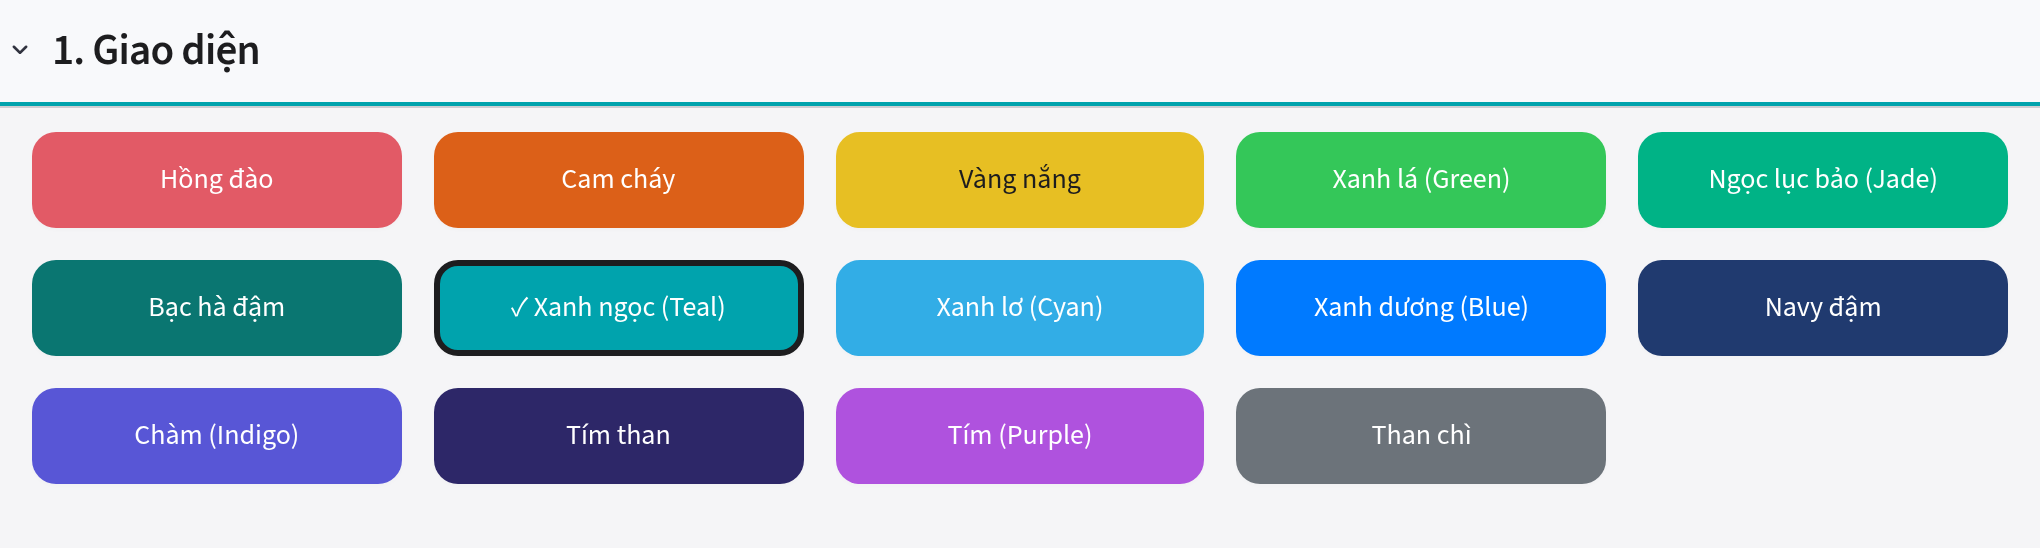
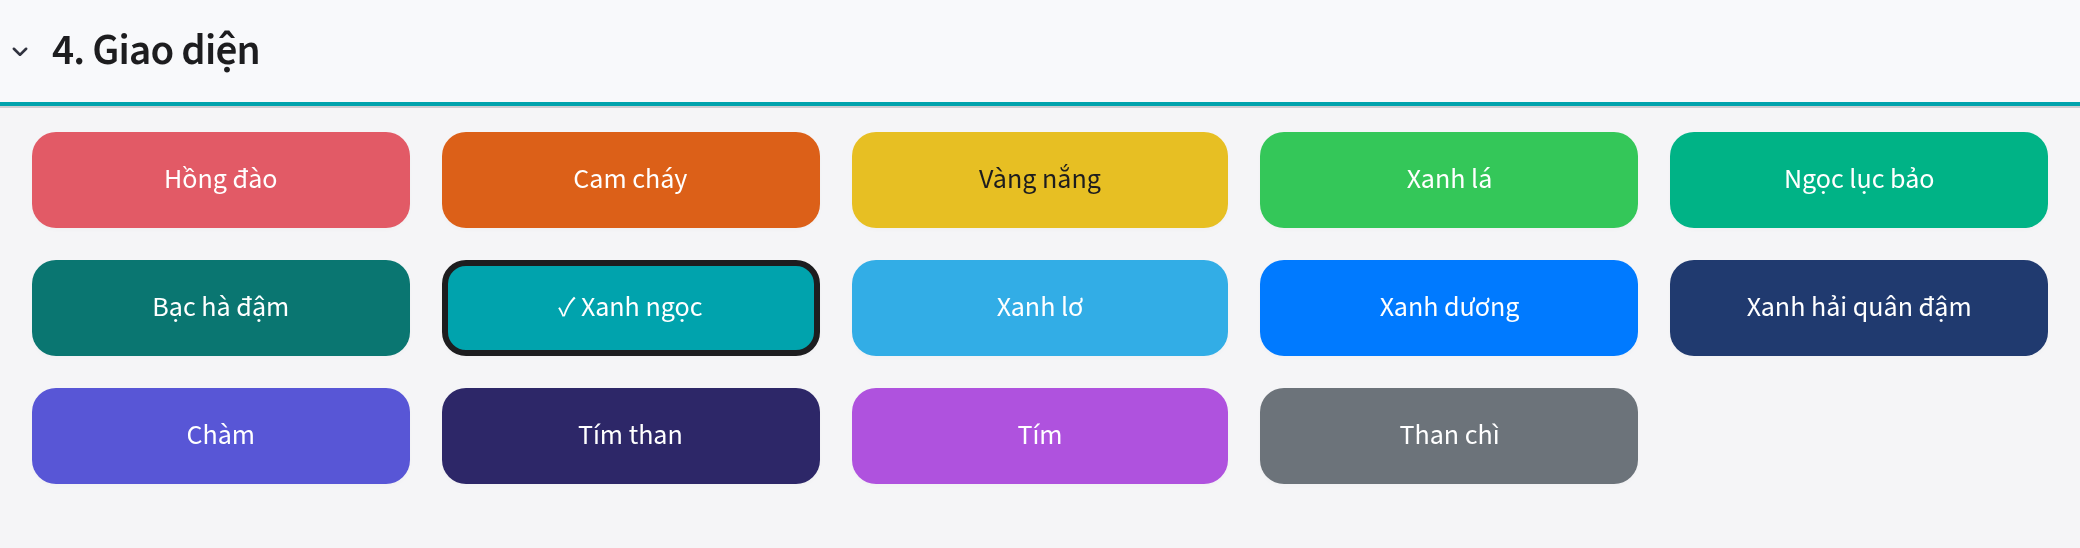
Match Hướng dẫn sub-tab bar to Báo cáo's flat style; reorder Tuỳ biến (#128)
* Hide the full-width gray divider under Sách/Gundam sub-tabs

st.tabs() renders a baseweb "tab-border" element spanning the full
tab-list width beneath the tabs; the Báo cáo sub-page picker (custom
segmented_control) has no such line, so hide it here too for a
consistent look between the two sub-tab bars.

* Add "Hôm nay" as default landing page, rename tab to "Tuỳ biến", add accent color picker

- Extract the day-report page out of Báo cáo into a new top-level nav
  item "Hôm nay" (first position, default landing page) — matches the
  daily-first-check workflow. "Tổng quan" (formerly "Thống kê chung")
  moves into Báo cáo as its new first sub-page, replacing "Ngày".
  Day-jump links updated to target Hôm nay directly (no more &sub=).
- Rename "Chuẩn bị dữ liệu" nav tab to "Tuỳ biến"; leave all in-app
  Hướng dẫn tab content untouched (verified byte-identical) per an
  explicit request to defer that rewrite to a separate commit.
- Add a settings table (Supabase) plus an 8-color accent picker in a
  new "5. Giao diện" section — replaces the single hardcoded teal
  accent everywhere: the global CSS block via :root CSS variables, the
  Quill editor's iframe CSS, session/calendar/heatmap color scales
  (now hue-derived from the chosen accent instead of a hardcoded
  constant), and table heat-cell backgrounds. Verified the default
  Teal preset reproduces the original hue/shade values exactly, so
  existing users see no visual change unless they pick a different
[…]

diff --git a/app.py b/app.py
@@ -161,7 +161,7 @@ MAC_COLORS = [
 ]
 
 
-# 14 lựa chọn màu accent (tab Tuỳ biến → "1. Giao diện"), người dùng tự chọn từ bản mockup --
+# 14 lựa chọn màu accent (tab Tuỳ biến → "4. Giao diện"), người dùng tự chọn từ bản mockup --
 # xếp theo thứ tự hue tăng dần (đỏ/cam/vàng -> xanh lá -> xanh dương -> tím) cho có thứ tự hợp
 # lý khi hiện thành lưới, riêng "Than chì" (gần như xám) xếp cuối vì không thuộc dải màu nào.
 # Lưu ý: 3 màu đầu (Hồng đào/Cam cháy/Vàng nắng) CỐ Ý trùng vùng tông app đang dùng cho cảnh báo
@@ -171,16 +171,16 @@ ACCENT_PRESETS = {
     "Hồng đào": "#e25a66",
     "Cam cháy": "#dc6018",
     "Vàng nắng": "#e7bf23",
-    "Xanh lá (Green)": "#34c759",
-    "Ngọc lục bảo (Jade)": "#00b386",
+    "Xanh lá": "#34c759",
+    "Ngọc lục bảo": "#00b386",
     "Bạc hà đậm": "#0a7671",
-    "Xanh ngọc (Teal)": "#00a3ad",      # mặc định, giữ NGUYÊN màu hiện tại
-    "Xanh lơ (Cyan)": "#32ade6",
-    "Xanh dương (Blue)": "#007aff",
-    "Navy đậm": "#203a6f",
-    "Chàm (Indigo)": "#5856d6",
+    "Xanh ngọc": "#00a3ad",      # mặc định, giữ NGUYÊN màu hiện tại
+    "Xanh lơ": "#32ade6",
+    "Xanh dương": "#007aff",
+    "Xanh hải quân đậm": "#203a6f",
+    "Chàm": "#5856d6",
     "Tím than": "#2d2768",
-    "Tím (Purple)": "#af52de",
+    "Tím": "#af52de",
     "Than chì": "#6c737a",
 }
 
@@ -215,7 +215,7 @@ def _darken(hexcode, factor=0.72):
 
 def _readable_text(hexcode):
     """Chữ trắng hay đen đọc rõ hơn trên nền màu này (độ chói YIQ) -- dùng cho tên màu hiện
-    ngay trên nút accent (mục "1. Giao diện"), tự thích ứng khi thêm/bớt preset sau này."""
+    ngay trên nút accent (mục "4. Giao diện"), tự thích ứng khi thêm/bớt preset sau này."""
     h = hexcode.lstrip("#")
     r, g, b = int(h[0:2], 16), int(h[2:4], 16), int(h[4:6], 16)
     luminance = (0.299 * r + 0.587 * g + 0.114 * b) / 255
@@ -2616,9 +2616,13 @@ st.markdown(
     .st-key-rl_view_tabs [data-baseweb="tab-border"] { display: none !important; }
 
     /* Sub-tab của trang Hướng dẫn -- cùng khuôn Tổng quan/Chi tiết (Sách/Gundam) ở trên, tái
-       dùng nguyên 2 rule để 3 nơi trong app nhất quán 1 kiểu "tab gạch chân". */
-    .st-key-guide_tabs [data-baseweb="tab-list"] { justify-content: center !important; flex-wrap: wrap !important; }
-    .st-key-guide_tabs [data-baseweb="tab-border"] { display: none !important; }
+       dùng nguyên 2 rule để 3 nơi trong app nhất quán 1 kiểu "tab gạch chân". Key đặt
+       "help_subtabs" (không phải "guide_...") CỐ Ý -- tránh khớp nhầm rule
+       [class*="st-key-guide"] bên dưới (khớp theo tiền tố con chuỗi, "guide_tabs" sẽ vô tình
+       ăn theo kiểu thẻ card nền trắng của guide_item/guide_update, làm cả thanh tab bị bọc
+       khung trắng thay vì để lộ nền xám của trang, như đã xảy ra và cần sửa). */
+    .st-key-help_subtabs [data-baseweb="tab-list"] { justify-content: center !important; flex-wrap: wrap !important; }
+    .st-key-help_subtabs [data-baseweb="tab-border"] { display: none !important; }
 
     /* Pagination (bảng phiên) căn giữa: stPagination là flex full-width nhưng justify
        flex-start -> đẩy hàng nút vào giữa */
@@ -3355,42 +3359,7 @@ elif nav == "Gundam":
 # TAB TUỲ BIẾN
 # ==========================================
 elif nav == "Tuỳ biến":
-    with st.expander("1. Giao diện", expanded=True):
-        _preset_items = list(ACCENT_PRESETS.items())
-        _per_row = 5
-        _swatch_css = "<style>"
-        for _row_start in range(0, len(_preset_items), _per_row):
-            _row_items = _preset_items[_row_start:_row_start + _per_row]
-            _cols = st.columns(_per_row)
-            for _i, (_name, _hex) in enumerate(_row_items):
-                _idx = _row_start + _i
-                _key = f"accent_sw_{_idx}"
-                _selected = _hex == ACCENT
-                _border = "#1d1d1f" if _selected else "transparent"
-                _txt_color = _readable_text(_hex)
-                _label = f"✓ {_name}" if _selected else _name
-                # Selector cần đủ đặc hiệu để thắng rule chung .stButton button[kind="secondary"]
-                # (đặt nền trắng !important cho mọi nút phụ trong app) -- .st-key-<key> button đơn
-                # thuần thua rule đó (thiếu 1 bậc [data-testid]/[kind]), nên phải khớp lại cấu trúc
-                # đầy đủ div[data-testid="stButton"] button[kind="secondary"] bên trong. Tên màu
-                # hiện thẳng trên nút (không chỉ tooltip) -- màu chữ tự chọn trắng/đen theo độ
-                # chói nền (_readable_text) để luôn đọc rõ với 14 màu khác nhau.
-                _swatch_css += (
-                    f".st-key-{_key} div[data-testid=\"stButton\"] button[kind=\"secondary\"] {{ "
-                    f"background:{_hex} !important; color:{_txt_color} !important; "
-                    f"border:3px solid {_border} !important; border-radius:12px !important; "
-                    f"width:100% !important; height:auto !important; min-height:48px !important; "
-                    f"padding:8px 6px !important; font-weight:600 !important; font-size:13px !important; "
-                    f"white-space:normal !important; line-height:1.25 !important; }}")
-                with _cols[_i]:
-                    if st.button(_label, key=_key, use_container_width=True):
-                        if _hex != ACCENT:
-                            save_setting("accent_hex", _hex)
-                            st.rerun()
-        _swatch_css += "</style>"
-        st.markdown(_swatch_css, unsafe_allow_html=True)
-
-    with st.expander("2. Dữ liệu đầu vào", expanded=True):
+    with st.expander("1. Dữ liệu đầu vào", expanded=True):
         _tab_forest, _tab_cal, _tab_rem = st.tabs(["Tải lên từ Forest", "Đồng bộ lịch", "Tải lên từ Reminder"])
         with _tab_forest:
             _msg = st.session_state.pop('import_msg', None)
@@ -3514,13 +3483,13 @@ elif nav == "Tuỳ biến":
                         time.sleep(1)
                         st.rerun()
 
-    with st.expander("3. Phân loại", expanded=True):
+    with st.expander("2. Phân loại", expanded=True):
         db_current = load_db()
         mapping_df = load_mapping()
         all_projs = sorted(db_current['Dự án'].dropna().astype(str).unique()) if not db_current.empty else []
         cur_map = dict(zip(mapping_df['Dự án'].astype(str), mapping_df['Danh mục'])) if not mapping_df.empty else {}
         if not all_projs:
-            st.info("Chưa có dự án nào. Hãy tải dữ liệu ở mục 2 trước.")
+            st.info("Chưa có dự án nào. Hãy tải dữ liệu ở mục 1 trước.")
         else:
             existing_cats = sorted({str(v) for v in cur_map.values() if pd.notna(v) and str(v).strip()})
             unmapped = [p for p in all_projs if not (cur_map.get(p) and str(cur_map.get(p)).strip())]
@@ -3550,7 +3519,7 @@ elif nav == "Tuỳ biến":
                 nm = nm[nm["Danh mục"].notna() & (nm["Danh mục"].astype(str).str.strip() != "")]
                 save_mapping(nm[["Dự án", "Danh mục"]].reset_index(drop=True))
                 st.rerun()
-    with st.expander("4. Dữ liệu làm việc hiện tại", expanded=True):
+    with st.expander("3. Dữ liệu làm việc hiện tại", expanded=True):
         if not db_current.empty:
             db_base = db_current.reset_index(drop=True)
             _dt = pd.to_datetime(db_base['Thời gian bắt đầu'], errors='coerce')
@@ -3597,6 +3566,41 @@ elif nav == "Tuỳ biến":
                     f"<div style='text-align:center;font-size:13px;color:#86868b;margin-top:2px;'>"
                     f"Hiển thị phiên {_start + 1}–{min(_start + PAGE_SIZE, n)} / {n}</div>",
                     unsafe_allow_html=True)
+    with st.expander("4. Giao diện", expanded=True):
+        _preset_items = list(ACCENT_PRESETS.items())
+        _per_row = 5
+        _swatch_css = "<style>"
+        for _row_start in range(0, len(_preset_items), _per_row):
+            _row_items = _preset_items[_row_start:_row_start + _per_row]
+            _cols = st.columns(_per_row)
+            for _i, (_name, _hex) in enumerate(_row_items):
+                _idx = _row_start + _i
+                _key = f"accent_sw_{_idx}"
+                _selected = _hex == ACCENT
+                _border = "#1d1d1f" if _selected else "transparent"
+                _txt_color = _readable_text(_hex)
+                _label = f"✓ {_name}" if _selected else _name
+                # Selector cần đủ đặc hiệu để thắng rule chung .stButton button[kind="secondary"]
+                # (đặt nền trắng !important cho mọi nút phụ trong app) -- .st-key-<key> button đơn
+                # thuần thua rule đó (thiếu 1 bậc [data-testid]/[kind]), nên phải khớp lại cấu trúc
+                # đầy đủ div[data-testid="stButton"] button[kind="secondary"] bên trong. Tên màu
+                # hiện thẳng trên nút (không chỉ tooltip) -- màu chữ tự chọn trắng/đen theo độ
+                # chói nền (_readable_text) để luôn đọc rõ với 14 màu khác nhau.
+                _swatch_css += (
+                    f".st-key-{_key} div[data-testid=\"stButton\"] button[kind=\"secondary\"] {{ "
+                    f"background:{_hex} !important; color:{_txt_color} !important; "
+                    f"border:3px solid {_border} !important; border-radius:12px !important; "
+                    f"width:100% !important; height:auto !important; min-height:48px !important; "
+                    f"padding:8px 6px !important; font-weight:600 !important; font-size:13px !important; "
+                    f"white-space:normal !important; line-height:1.25 !important; }}")
+                with _cols[_i]:
+                    if st.button(_label, key=_key, use_container_width=True):
+                        if _hex != ACCENT:
+                            save_setting("accent_hex", _hex)
+                            st.rerun()
+        _swatch_css += "</style>"
+        st.markdown(_swatch_css, unsafe_allow_html=True)
+
     with st.expander("5. Quản lý hệ thống", expanded=True):
         c1, c2, c3 = st.columns(3)
         _today = date.today().strftime('%Y-%m-%d')
@@ -3694,20 +3698,13 @@ elif nav == "Tuỳ biến":
 # TAB HƯỚNG DẪN
 # ==========================================
 elif nav == "Hướng dẫn":
-    st.markdown(
-        "<div style='margin-bottom:6px;'>"
-        "<div style='font-size:1.9rem;font-weight:700;letter-spacing:-0.5px;'>Hướng dẫn &amp; Giải thích</div>"
-        "<div style='font-size:14.5px;color:#86868b;margin-top:2px;'>Mọi số liệu, biểu đồ và tính năng trong "
-        "app có ý nghĩa gì, đọc thế nào, và vì sao được thiết kế như vậy — kèm ảnh minh hoạ.</div></div>",
-        unsafe_allow_html=True)
-
     _guide_tabs = st.tabs([
         ":material/auto_awesome: Tổng quan",
         ":material/summarize: Hôm nay & Báo cáo",
         ":material/menu_book: Sách & Gundam",
         ":material/tune: Tuỳ biến",
         ":material/new_releases: Cập nhật",
-    ], key="guide_tabs")
+    ], key="help_subtabs")
 
     # ==========================================
     # SUB-TAB: TỔNG QUAN
@@ -3955,14 +3952,43 @@ elif nav == "Hướng dẫn":
             st.markdown("#### 5 mục của tab Tuỳ biến")
             st.markdown(
                 "Mọi thứ điều khiển \"app trông ra sao\" và \"dữ liệu đến từ đâu\" đều gom về đúng 1 trang, "
-                "đánh số 1-5: **Giao diện** (màu accent), **Dữ liệu đầu vào** (nạp dữ liệu mới), **Phân loại** "
-                "(gán Dự án vào Nhóm), **Dữ liệu làm việc hiện tại** (xem/xoá phiên thô), **Quản lý hệ thống** "
-                "(sao lưu/khôi phục/làm mới). Mục Giao diện được xếp lên **đầu tiên** — trước cả việc nạp dữ "
-                "liệu — vì đây là tuỳ chỉnh nhẹ nhàng nhất, phù hợp làm bước đầu khi mới mở tab; các mục còn lại "
-                "nặng tính thao tác dữ liệu hơn, xếp sau.")
+                "đánh số 1-5: **Dữ liệu đầu vào** (nạp dữ liệu mới), **Phân loại** (gán Dự án vào Nhóm), "
+                "**Dữ liệu làm việc hiện tại** (xem/xoá phiên thô), **Giao diện** (màu accent), **Quản lý hệ "
+                "thống** (sao lưu/khôi phục/làm mới). 3 mục đầu và mục cuối đi theo đúng thứ tự thao tác thực tế "
+                "khi mới dùng app (nạp → phân loại → kiểm tra lại → sao lưu); riêng Giao diện là tuỳ chỉnh "
+                "không liên quan tới luồng dữ liệu đó nên xếp riêng, ngay trước Quản lý hệ thống.")
 
         guide_item(
-            "giao_dien.png", "1. Giao diện — màu accent",
+            "prep_data_input.png", "1. Dữ liệu đầu vào",
+            "3 tab con, chỉ hiện 1 tab tại 1 thời điểm cho gọn:\n\n"
+            "- **Tải lên từ Forest** — nạp file CSV xuất từ app Forest. Mỗi lần tải lên chỉ **thêm dữ liệu mới**, "
+            "tự động bỏ qua phiên trùng lặp (so theo giờ bắt đầu/kết thúc) và phiên đã từng bị xoá trước đó — "
+            "nạp lại cùng 1 file nhiều lần không sợ bị nhân đôi dữ liệu.\n"
+            "- **Đồng bộ lịch** — kéo lịch hẹn từ Apple Calendar (lịch \"Work\") qua CalDAV, khoảng ngày quanh "
+            "hôm nay chọn nhanh (±30/±90/±180 ngày) hoặc khoảng ngày tuỳ chỉnh cho việc lấp dữ liệu cũ (phục vụ "
+            "mục Ngày này năm trước).\n"
+            "- **Tải lên từ Reminder** — nạp file xuất từ Apple Reminders qua Shortcuts, mỗi lần tải lên **thay "
+            "thế toàn bộ** dữ liệu Sách/Gundam cũ (khác hẳn cách Forest CSV chỉ cộng thêm) — vì Reminders phản "
+            "ánh đúng trạng thái hiện tại của toàn bộ list, không phải 1 lát cắt thời gian như CSV Forest.",
+            where="Tuỳ biến → 1. Dữ liệu đầu vào")
+
+        guide_item(
+            "prep_classify.png", "2. Phân loại",
+            "Gán mỗi Dự án Forest vào 1 Nhóm (Danh mục) — vd Dự án \"Deep Work\"/\"Viết báo cáo\" cùng gán "
+            "vào Nhóm \"Công việc\". Nhóm dùng để gộp các biểu đồ/bảng theo cấp cao hơn Dự án đơn lẻ. Dự án "
+            "chưa gán Nhóm nào vẫn hoạt động bình thường (tự đứng riêng, không thuộc Nhóm nào) — phân loại là "
+            "tuỳ chọn để gọn báo cáo, không bắt buộc để app chạy được.",
+            where="Tuỳ biến → 2. Phân loại")
+
+        guide_item(
+            "prep_worktable.png", "3. Dữ liệu làm việc hiện tại",
+            "Bảng thô liệt kê từng phiên đã nạp (giờ bắt đầu/kết thúc, Dự án, thời lượng), phân trang 100 dòng "
+            "mỗi trang khi dữ liệu nhiều. Chọn 1 hoặc nhiều dòng rồi xoá — phiên bị xoá được ghi nhớ riêng (bảng "
+            "`deleted_sessions`) để nếu sau này nạp lại đúng file CSV cũ, phiên đó không tự động xuất hiện lại.",
+            where="Tuỳ biến → 3. Dữ liệu làm việc hiện tại")
+
+        guide_item(
+            "giao_dien.png", "4. Giao diện — màu accent",
             "14 màu để chọn, xếp theo thứ tự sắc độ (đỏ/cam/vàng → xanh lá → xanh dương → tím, cuối cùng là "
             "\"Than chì\" gần như xám) cho dễ dò theo dải cầu vồng thay vì danh sách rối mắt. Bấm 1 màu là áp "
             "dụng **ngay lập tức**, không cần nút \"Lưu\" riêng — màu được ghi vào Supabase (bảng `settings`) "
@@ -3985,36 +4011,7 @@ elif nav == "Hướng dẫn":
                 "trong app (cam = chuỗi đang treo, đỏ = chuỗi đã đứt) — nếu chọn 1 trong 3 màu này làm accent, "
                 "2 trạng thái cảnh báo đó sẽ trông gần giống màu accent hơn bình thường. Đánh đổi này đã được "
                 "chấp nhận để có đủ lựa chọn màu ấm, không phải giới hạn kỹ thuật.",
-            where="Tuỳ biến → 1. Giao diện")
-
-        guide_item(
-            "prep_data_input.png", "2. Dữ liệu đầu vào",
-            "3 tab con, chỉ hiện 1 tab tại 1 thời điểm cho gọn:\n\n"
-            "- **Tải lên từ Forest** — nạp file CSV xuất từ app Forest. Mỗi lần tải lên chỉ **thêm dữ liệu mới**, "
-            "tự động bỏ qua phiên trùng lặp (so theo giờ bắt đầu/kết thúc) và phiên đã từng bị xoá trước đó — "
-            "nạp lại cùng 1 file nhiều lần không sợ bị nhân đôi dữ liệu.\n"
-            "- **Đồng bộ lịch** — kéo lịch hẹn từ Apple Calendar (lịch \"Work\") qua CalDAV, khoảng ngày quanh "
-            "hôm nay chọn nhanh (±30/±90/±180 ngày) hoặc khoảng ngày tuỳ chỉnh cho việc lấp dữ liệu cũ (phục vụ "
-            "mục Ngày này năm trước).\n"
-            "- **Tải lên từ Reminder** — nạp file xuất từ Apple Reminders qua Shortcuts, mỗi lần tải lên **thay "
-            "thế toàn bộ** dữ liệu Sách/Gundam cũ (khác hẳn cách Forest CSV chỉ cộng thêm) — vì Reminders phản "
-            "ánh đúng trạng thái hiện tại của toàn bộ list, không phải 1 lát cắt thời gian như CSV Forest.",
-            where="Tuỳ biến → 2. Dữ liệu đầu vào")
-
-        guide_item(
-            "prep_classify.png", "3. Phân loại",
-            "Gán mỗi Dự án Forest vào 1 Nhóm (Danh mục) — vd Dự án \"Deep Work\"/\"Viết báo cáo\" cùng gán "
-            "vào Nhóm \"Công việc\". Nhóm dùng để gộp các biểu đồ/bảng theo cấp cao hơn Dự án đơn lẻ. Dự án "
-            "chưa gán Nhóm nào vẫn hoạt động bình thường (tự đứng riêng, không thuộc Nhóm nào) — phân loại là "
-            "tuỳ chọn để gọn báo cáo, không bắt buộc để app chạy được.",
-            where="Tuỳ biến → 3. Phân loại")
-
-        guide_item(
-            "prep_worktable.png", "4. Dữ liệu làm việc hiện tại",
-            "Bảng thô liệt kê từng phiên đã nạp (giờ bắt đầu/kết thúc, Dự án, thời lượng), phân trang 100 dòng "
-            "mỗi trang khi dữ liệu nhiều. Chọn 1 hoặc nhiều dòng rồi xoá — phiên bị xoá được ghi nhớ riêng (bảng "
-            "`deleted_sessions`) để nếu sau này nạp lại đúng file CSV cũ, phiên đó không tự động xuất hiện lại.",
-            where="Tuỳ biến → 4. Dữ liệu làm việc hiện tại")
+            where="Tuỳ biến → 4. Giao diện")
 
         guide_item(
             "prep_backup.png", "5. Quản lý hệ thống",